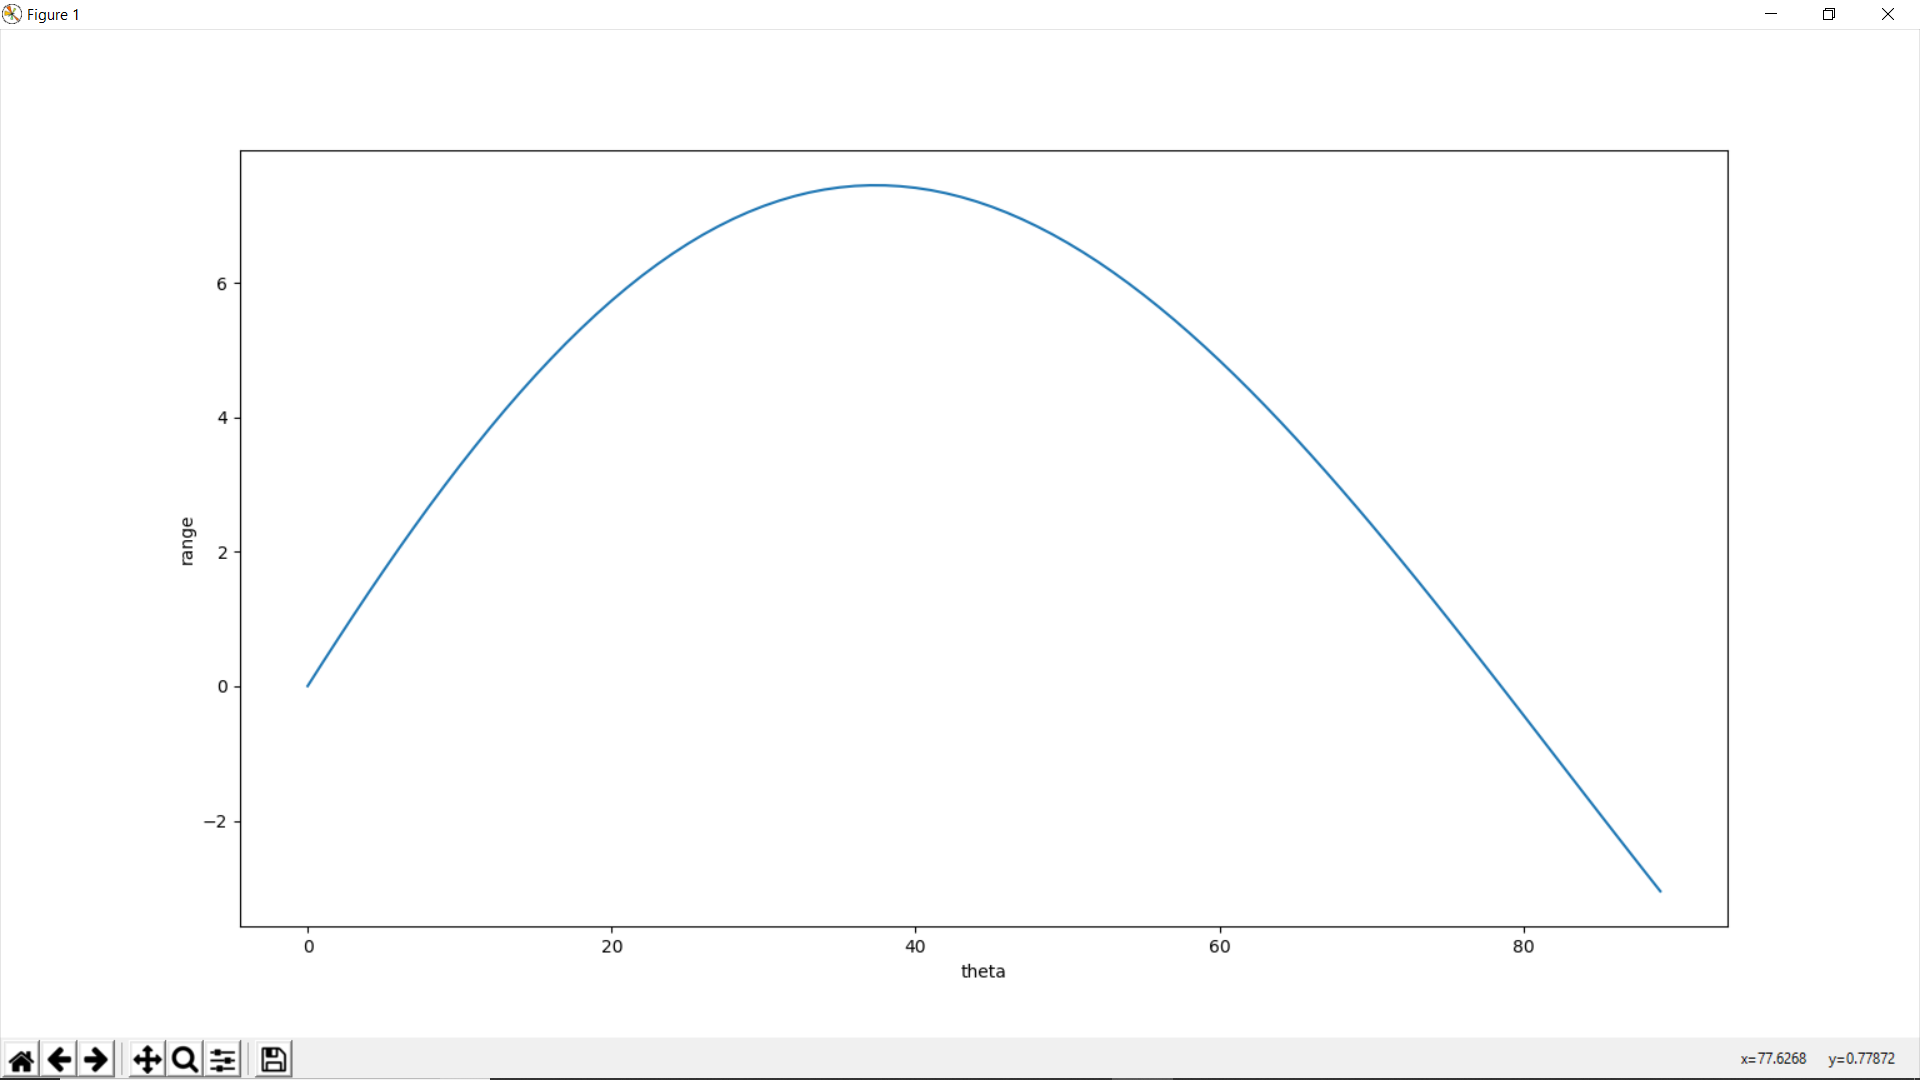
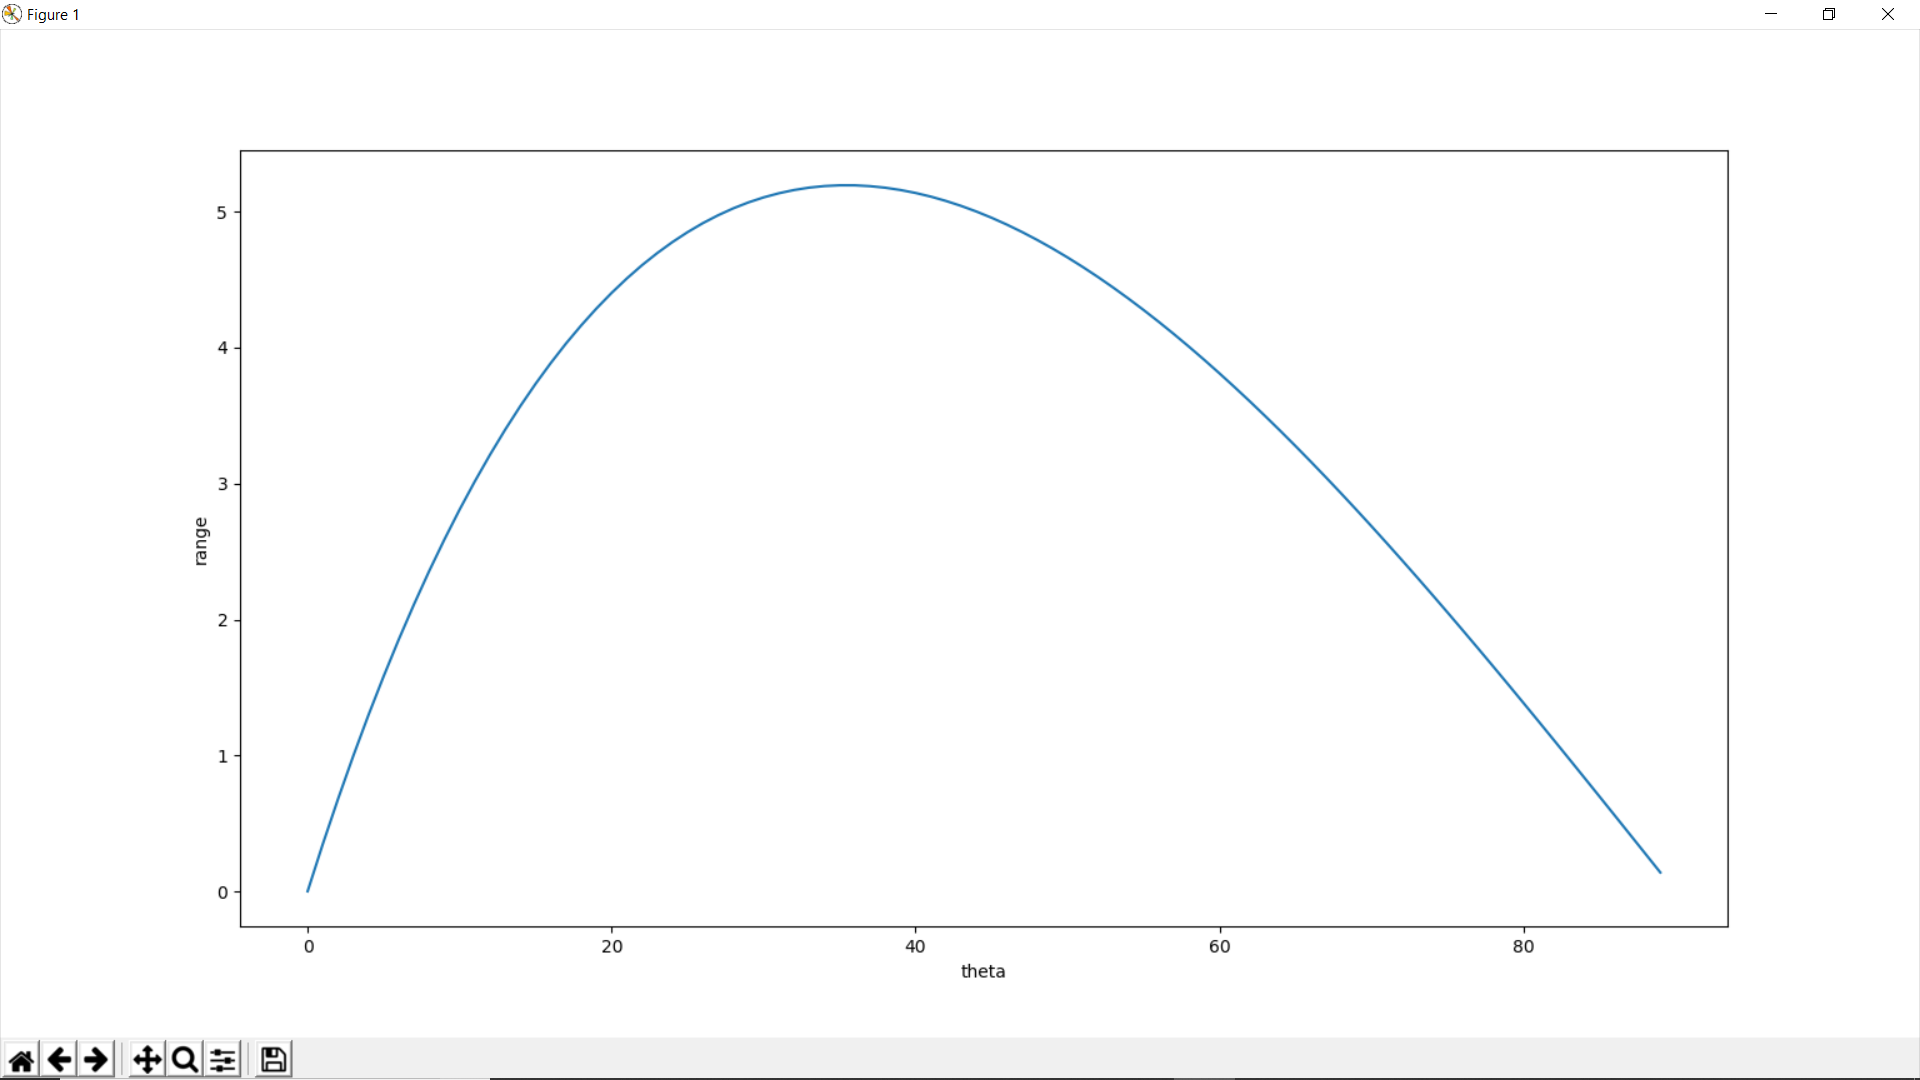
error corrected in question 1

diff --git a/question1/with/part2.py b/question1/with/part2.py
@@ -20,7 +20,7 @@ def rangef(theta):
 		vyd=vy
 		hd=h
 		d=dd+vx*0.0001
-		vx=vxd+(-vy)*0.0001
+		vx=vxd+(-vx)*0.0001
 		vxd=vx
 		dd=d
 		if(h<0):

diff --git a/question1/with/question1.py b/question1/with/question1.py
@@ -40,7 +40,7 @@ for t in time:
 
 #
 	d=dd+vx*0.0001
-	vx=vxd+(-vy)*0.0001
+	vx=vxd+(-vx)*0.0001
 	vxd=vx
 	dd=d
 
